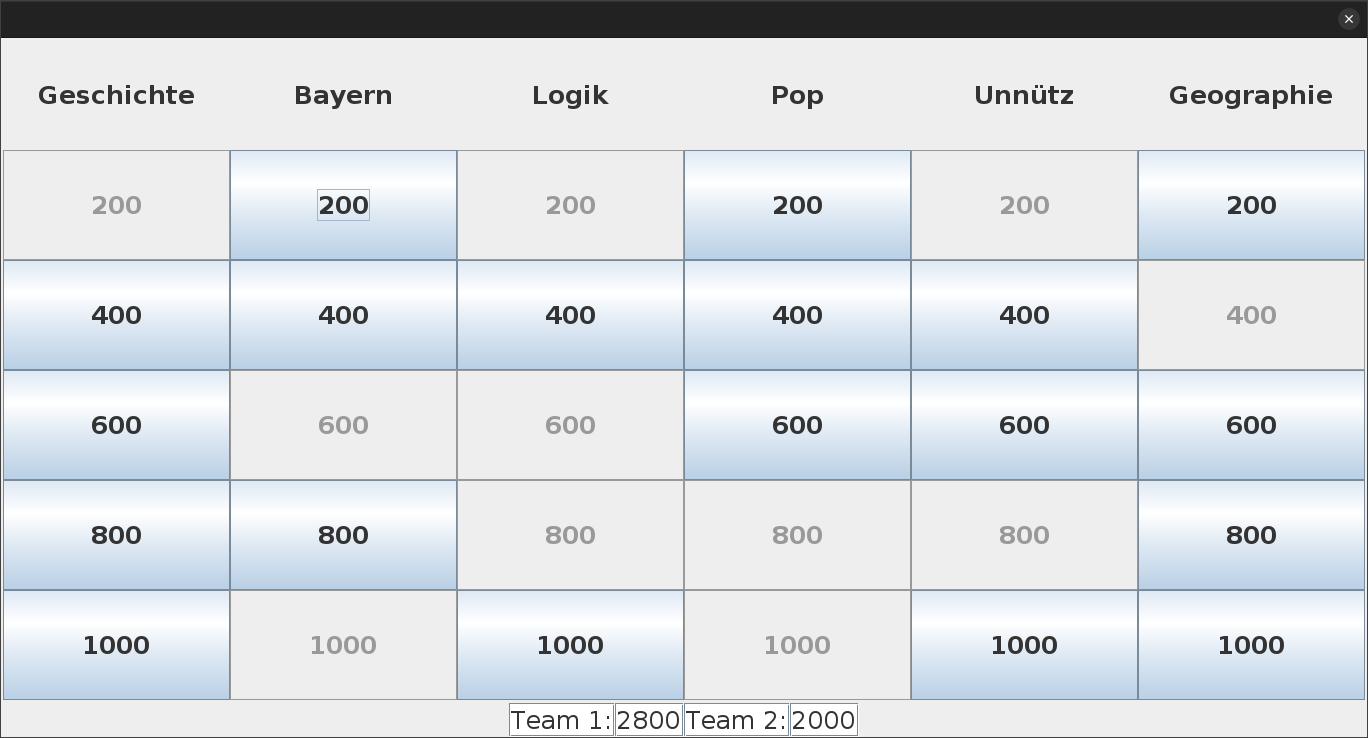
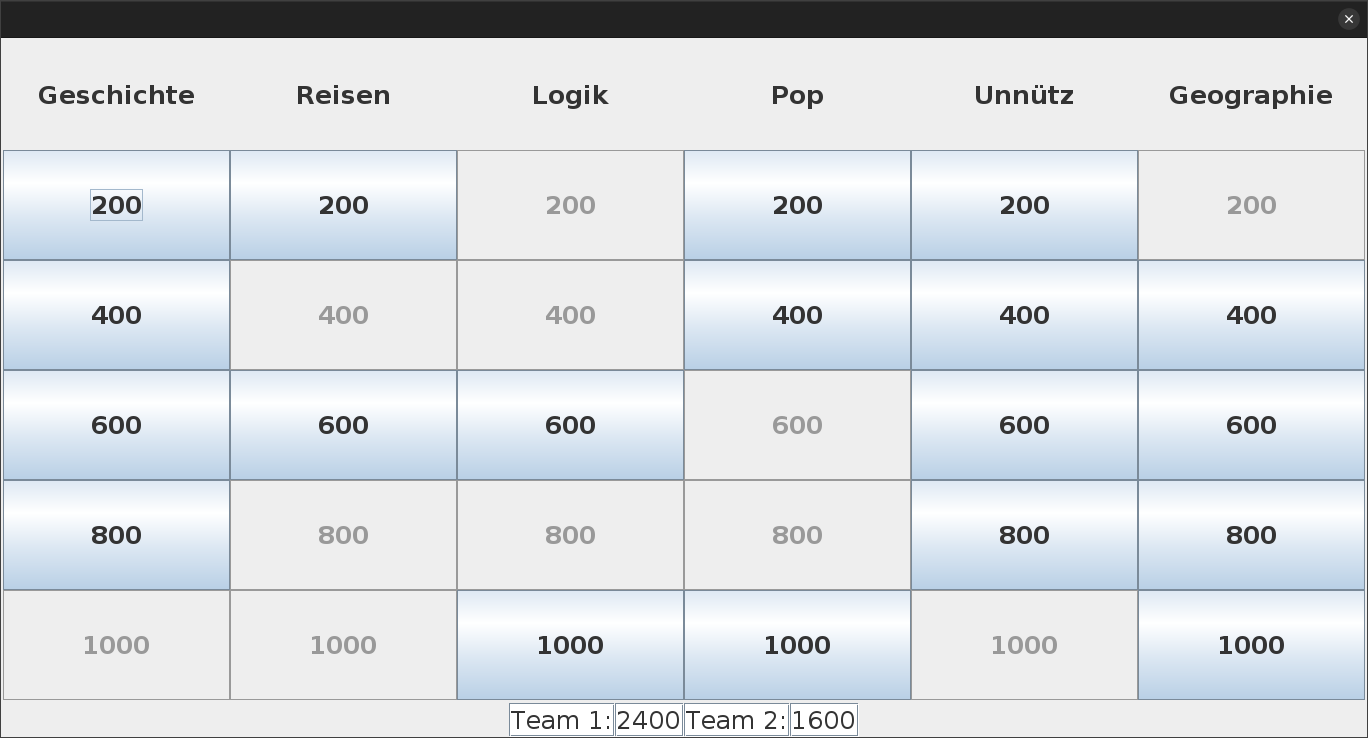
Add README

diff --git a/src/main/java/Constants.java b/src/main/java/Constants.java
@@ -1,6 +1,6 @@
 public class Constants {
     public static final String CATEGORY_1 = "Geschichte";
-    public static final String CATEGORY_2 = "Bayern";
+    public static final String CATEGORY_2 = "Reisen";
     public static final String CATEGORY_3 = "Logik";
     public static final String CATEGORY_4 = "Pop";
     public static final String CATEGORY_5 = "Unnütz";
